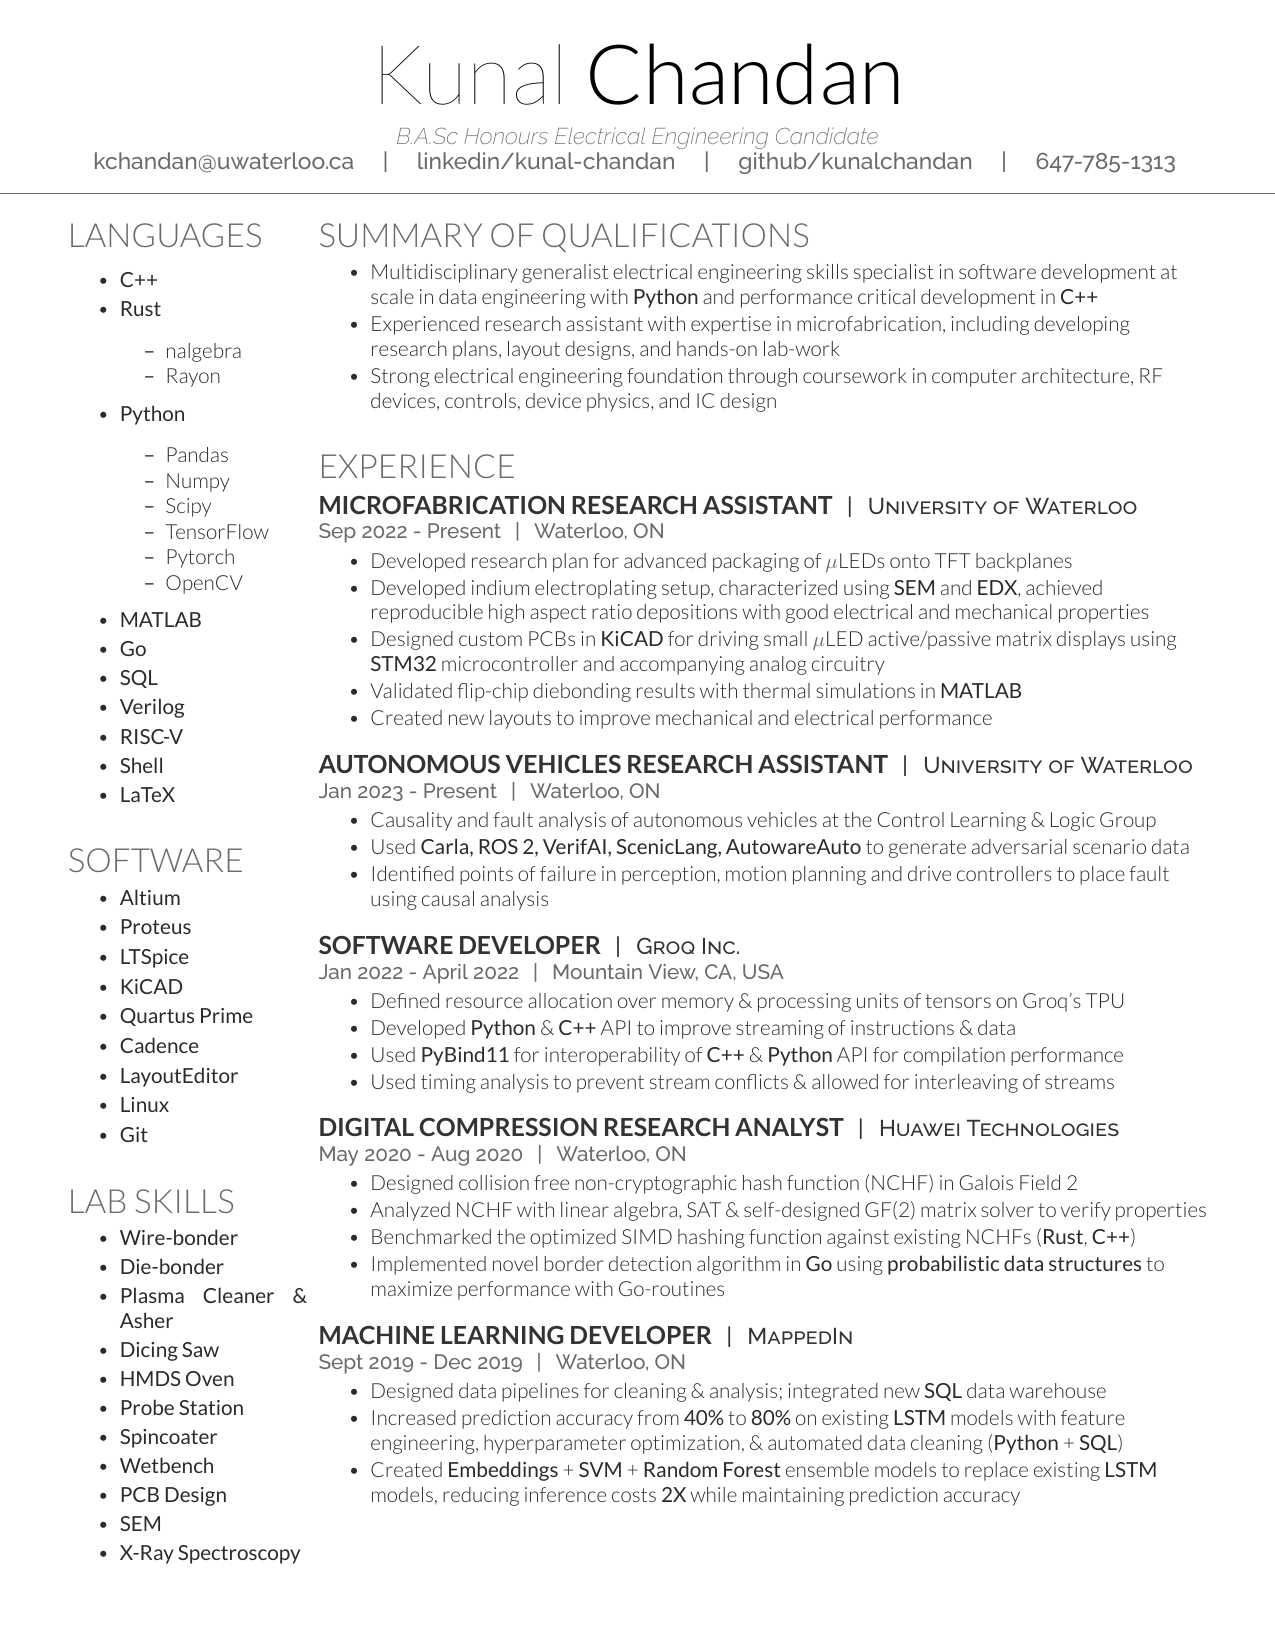
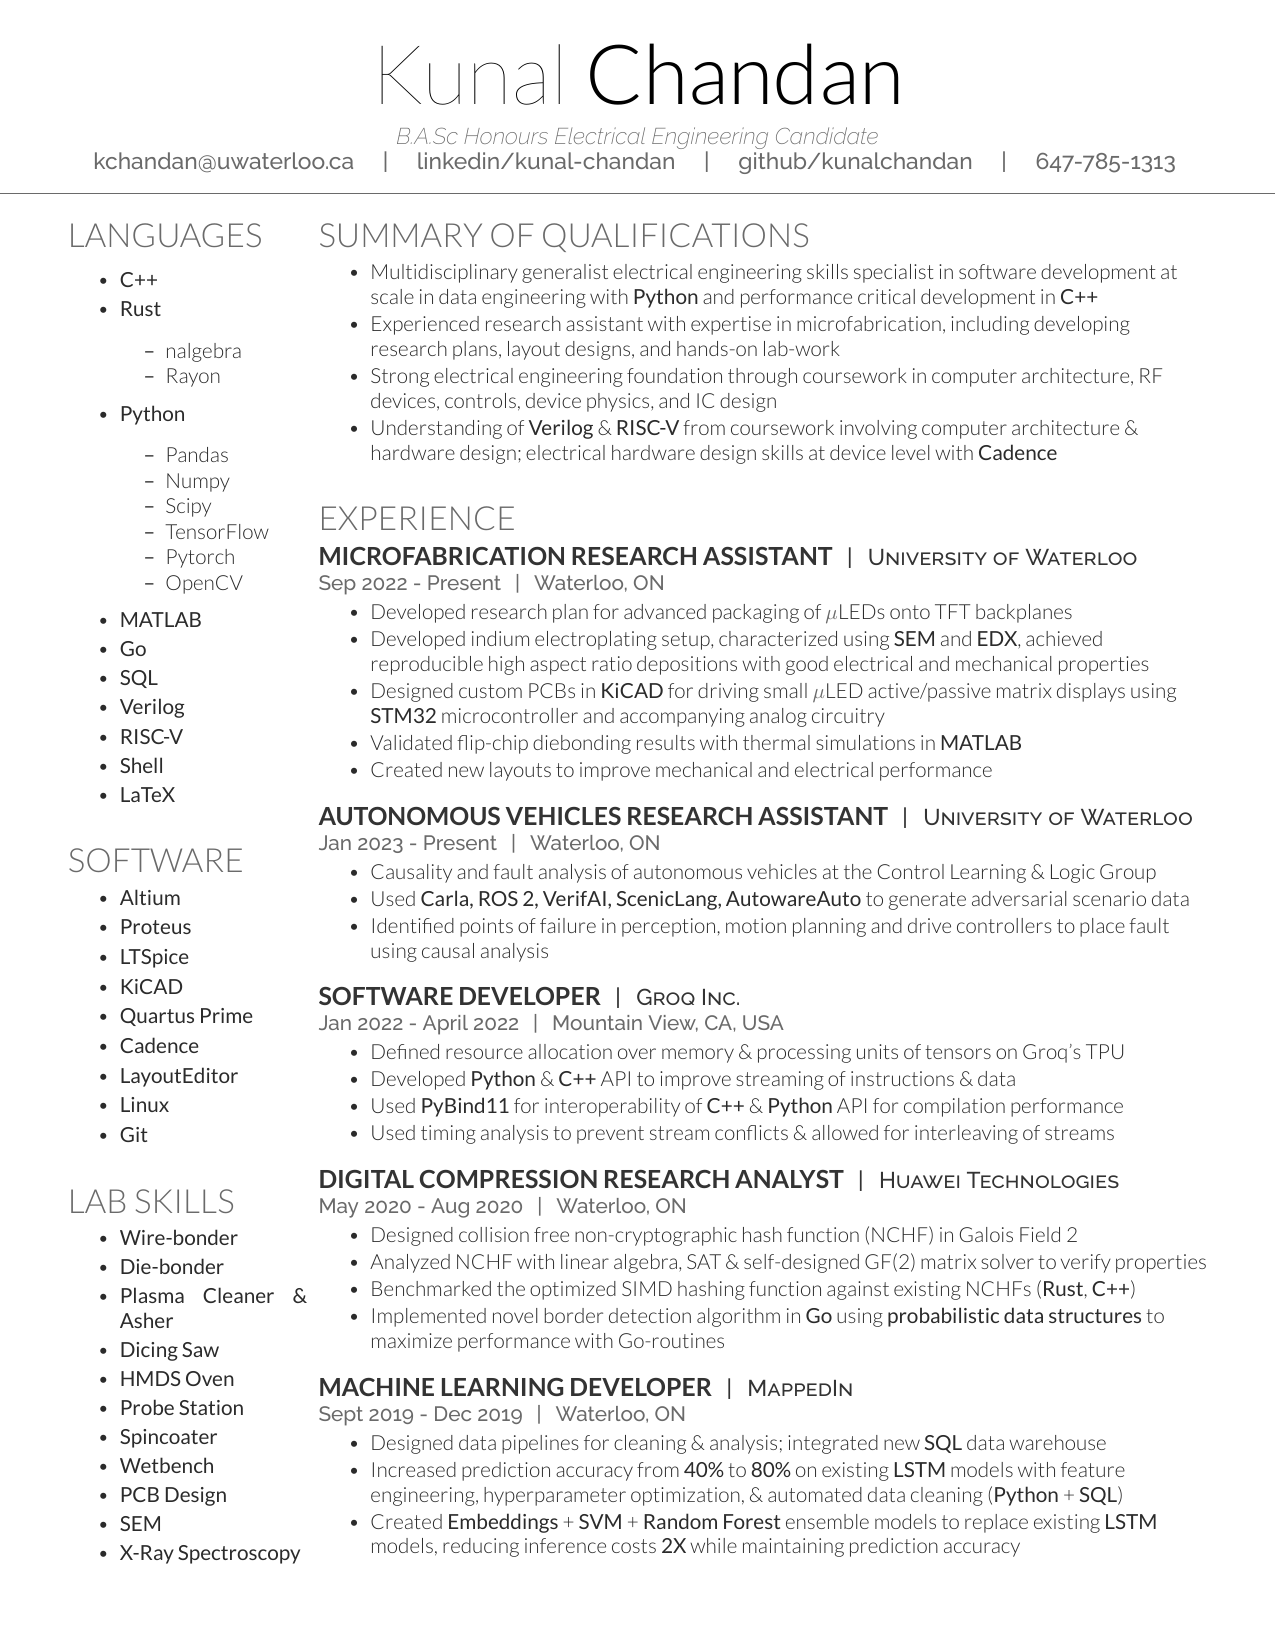
Update for ASIC IC position

Changed region(s): [[0.2447, 0.2471, 0.9176, 0.9576]]

diff --git a/Resume/Resume-Clean/chandan.tex b/Resume/Resume-Clean/chandan.tex
@@ -152,10 +152,10 @@
 	\item Experienced research assistant with expertise in  microfabrication, including developing research plans, layout designs, and hands-on lab-work
 	\item Strong electrical engineering foundation through coursework in computer architecture, RF devices, controls, device physics, and IC design
 	% \item Strong data engineering experience from leading projects at Robarts, MappedIn, \& OICR
-	% \item Excellent data pipeline experience in \textbf{Python}, \textbf{SQL}, \& \textbf{Shell} at Robarts, MappedIn, \& OICR 
-	% \item Understanding of \textbf{Verilog} \& \textbf{RISC-V} from coursework involving 
-	% computer architecture \& hardware design
-	% \item Strong electrical hardware design skills at device level fabrication experience and design with Cadence 
+	% \item Excellent data pipeline experience in \textbf{Python}, \textbf{SQL}, \& \textbf{Shell} at Robarts, MappedIn, \& OICR
+	\item Understanding of \textbf{Verilog} \& \textbf{RISC-V} from coursework involving
+	computer architecture \& hardware design; electrical hardware design skills at device level with \textbf{Cadence}
+	% \item Strong electrical hardware design skills at device level fabrication experience and design with \textbf{Cadence}
 	% \item Circuit-board design experience from internship and projects using KiCAD
 \end{tightemize}
 \sectionsep
@@ -171,10 +171,10 @@
 \location{Sep 2022 - Present \, | \, Waterloo, ON}
 \begin{tightemize}
         \item Developed research plan for advanced packaging of $\mu$LEDs onto TFT backplanes
-		\item Developed indium electroplating setup, characterized using \textbf{SEM} and \textbf{EDX}, achieved reproducible high aspect ratio depositions with good electrical and mechanical properties 
+		\item Developed indium electroplating setup, characterized using \textbf{SEM} and \textbf{EDX}, achieved reproducible high aspect ratio depositions with good electrical and mechanical properties
 		\item Designed custom PCBs in \textbf{KiCAD} for driving small $\mu$LED active/passive matrix displays using \textbf{STM32} microcontroller and accompanying analog circuitry
 		\item Validated flip-chip diebonding results with thermal simulations in \textbf{MATLAB}
-		\item Created new layouts to improve mechanical and electrical performance 
+		\item Created new layouts to improve mechanical and electrical performance
 \end{tightemize}
 \sectionsep
 
@@ -183,7 +183,7 @@
 \location{Jan 2023 - Present \, | \, Waterloo, ON}
 \begin{tightemize}
         \item Causality and fault analysis of autonomous vehicles at the Control Learning \& Logic Group
-		\item Used \textbf{Carla, ROS 2, VerifAI, ScenicLang, AutowareAuto} to generate adversarial scenario data  
+		\item Used \textbf{Carla, ROS 2, VerifAI, ScenicLang, AutowareAuto} to generate adversarial scenario data
 		\item Identified points of failure in perception, motion planning and drive controllers to place fault using causal analysis
 \end{tightemize}
 \sectionsep
@@ -194,7 +194,7 @@
 \begin{tightemize}
         \item Defined resource allocation over memory \& processing units of tensors on Groq's TPU
         \item Developed \textbf{Python} \& \textbf{C++} API to improve streaming of instructions \& data
-        \item Used \textbf{PyBind11} for interoperability of \textbf{C++} \& \textbf{Python} API for compilation performance 
+        \item Used \textbf{PyBind11} for interoperability of \textbf{C++} \& \textbf{Python} API for compilation performance
         \item Used timing analysis to prevent stream conflicts \& allowed for interleaving of streams
 \end{tightemize}
 \sectionsep
@@ -215,9 +215,9 @@
 \location{Sept 2019 - Dec 2019 \, | \, Waterloo, ON}
 \begin{tightemize}
         \item Designed data pipelines for cleaning \& analysis; integrated new \textbf{SQL} data warehouse
-        \item Increased prediction accuracy from \textbf{40\%} to \textbf{80\%} on existing \textbf{LSTM} 
+        \item Increased prediction accuracy from \textbf{40\%} to \textbf{80\%} on existing \textbf{LSTM}
   models with feature engineering, hyperparameter optimization, \& automated data cleaning (\textbf{Python} + \textbf{SQL})
-        \item Created \textbf{Embeddings} + \textbf{SVM} + \textbf{Random Forest} ensemble models to replace existing 
+        \item Created \textbf{Embeddings} + \textbf{SVM} + \textbf{Random Forest} ensemble models to replace existing
   \textbf{LSTM} models, reducing inference costs \textbf{2X} while maintaining prediction accuracy
 \end{tightemize}
 \sectionsep
@@ -232,7 +232,7 @@
 \location{Jan 2019 - April 2019 \, | \, Toronto, ON}
 \begin{tightemize}
 	\item Project lead of new statistical analysis tool for all future studies at OICR-GSI
-	\item Designed genomics pipelines for visualization, cleaning, and analysis; 
+	\item Designed genomics pipelines for visualization, cleaning, and analysis;
 	interfacing with existing \textbf{R}, \textbf{Perl}, and \textbf{Shell} pipelines
 	\item Wrote future-proof and extensible code to process big datasets (\textbf{Pandas} + \textbf{Shell})
 	\item Open-sourced project and version controlled with \textbf{Git}; created extensive documentation
@@ -243,7 +243,7 @@
 \descript{| \, Robarts Research Institute}
 \location{Jan 2021 - April 2021 \, | \, London, ON}
 \begin{tightemize}
-	\item Developed software in \textbf{Python} \& \textbf{SQL} for existing genetics analysis pipeline 
+	\item Developed software in \textbf{Python} \& \textbf{SQL} for existing genetics analysis pipeline
 	\item Resolved bugs in existing lab software (\textbf{Perl}, \textbf{Python}, \textbf{C\#})
 	\item Developed software for migration of genetic analysis database from GRCh37 to GRCh38
 \end{tightemize}
@@ -253,10 +253,10 @@
 % \descript{| \, Elder Lab, York University}
 % \location{June 2017 - June 2018 \, | \, Toronto, ON}
 % \begin{tightemize}
-% 	\item Analyzed human response to visual stimulus with \textbf{MATLAB} \& \textbf{PsychToolbox} with 2 novel experiments; 
+% 	\item Analyzed human response to visual stimulus with \textbf{MATLAB} \& \textbf{PsychToolbox} with 2 novel experiments;
 % 	research conducted under guidance of Post-Doc
 % 	\item Designed data collection methods using \textbf{Amazon M. Turk} guided by PhD candidate
-% 	\item Conducted data augmentation, visualization, interpretation using \textbf{Python}, 
+% 	\item Conducted data augmentation, visualization, interpretation using \textbf{Python},
 % 	\textbf{OpenCV}, and \textbf{MatPlotLib} for experimental data pertaining to object recognition
 % \end{tightemize}
 % \sectionsep
@@ -272,8 +272,8 @@
 \location{ }
 \begin{tightemize}
 	\item Designed 5-stage pipelined \textbf{RISC-V} 32-bit core in \textbf{Verilog}
-	\item Optimized the performance of the processor through techniques such as pipeline design and hazard prevention minimizing stalling 
-	\item Core synthesizable on FPGA and successfully run simple programs, used testbenches to ensure cycle accuracy 
+	\item Optimized the performance of the processor through techniques such as pipeline design and hazard prevention minimizing stalling
+	\item Core synthesizable on FPGA and successfully run simple programs, used testbenches to ensure cycle accuracy
 \end{tightemize}
 \sectionsep
 
@@ -283,10 +283,10 @@
 \location{ }
 \begin{tightemize}
 	\item Designed analog filters using active circuits for bandpassing human voice
-	\item designed multichannel microphone array to pass analog data over \textbf{USB-HS} on custom PCB designed in \textbf{KiCAD}
+	% \item Designed multichannel microphone array to pass analog data over \textbf{USB-HS} on custom PCB designed in \textbf{KiCAD}
 	\item Improved ML models for real-time beamforming and voice isolation, inference time improved \textbf{3x} while maintaining performance
-	\item Used \textbf{Pytorch} to create quantized voice isolation model hyperparameter optimization used to minimize latency while maintaining performance 
-	\item Used \textbf{multiprocessing} and \textbf{asyncio} to maximize throughput and run \textbf{Flask} server
+	\item Used \textbf{Pytorch} to create quantized model, hyperparameter optimization
+	\item Used \textbf{multiprocessing, threading} and \textbf{asyncio} to maximize throughput and run \textbf{Flask} server
 \end{tightemize}
 \sectionsep
 
@@ -297,7 +297,7 @@
 \begin{tightemize}
 	\item Implemented 3D recursive ray tracing engine for arbitrary materials on spheres in \textbf{Rust}
 	\item Used traits \& modular programming to create extensible scene-object interface
-	\item Used \textbf{nalgebra} for arbitrary rotations \& positions of camera \& objects 
+	\item Used \textbf{nalgebra} for arbitrary rotations \& positions of camera \& objects
 	\item Parallel processing of ray-tracing using \textbf{rayon} yielding \textbf{2X} performance speed-up
 \end{tightemize}
 \sectionsep
@@ -307,7 +307,7 @@
 %\location{ }
 %\begin{tightemize}
 %	\item Implemented kinematics \& electrodynamics written with \textbf{Allegro5} \& \textbf{C++}
-%	\item Implemented quadtrees for increased performance from reduced collision checks \& fewer 
+%	\item Implemented quadtrees for increased performance from reduced collision checks \& fewer
 %	negligible force calculations by \textbf{pruning} tree
 %\end{tightemize}
 %\sectionsep
@@ -341,6 +341,11 @@
 \begin{tightemize}
         \item Computer Architecture
 		\item Electronic Devices, Semiconductor Physics, Analog/Digital Integrated Circuits
+		\begin{tightemize}
+			\vskip
+			\vskip
+			\item Designed digital and analog circuits in \textbf{Cadence} and \textbf{KiCAD}
+		\end{tightemize}
 		\item Analog/Digital/Multivariable Control Systems
 		\item Radio Frequency \& Microwave Circuits
 \end{tightemize}
